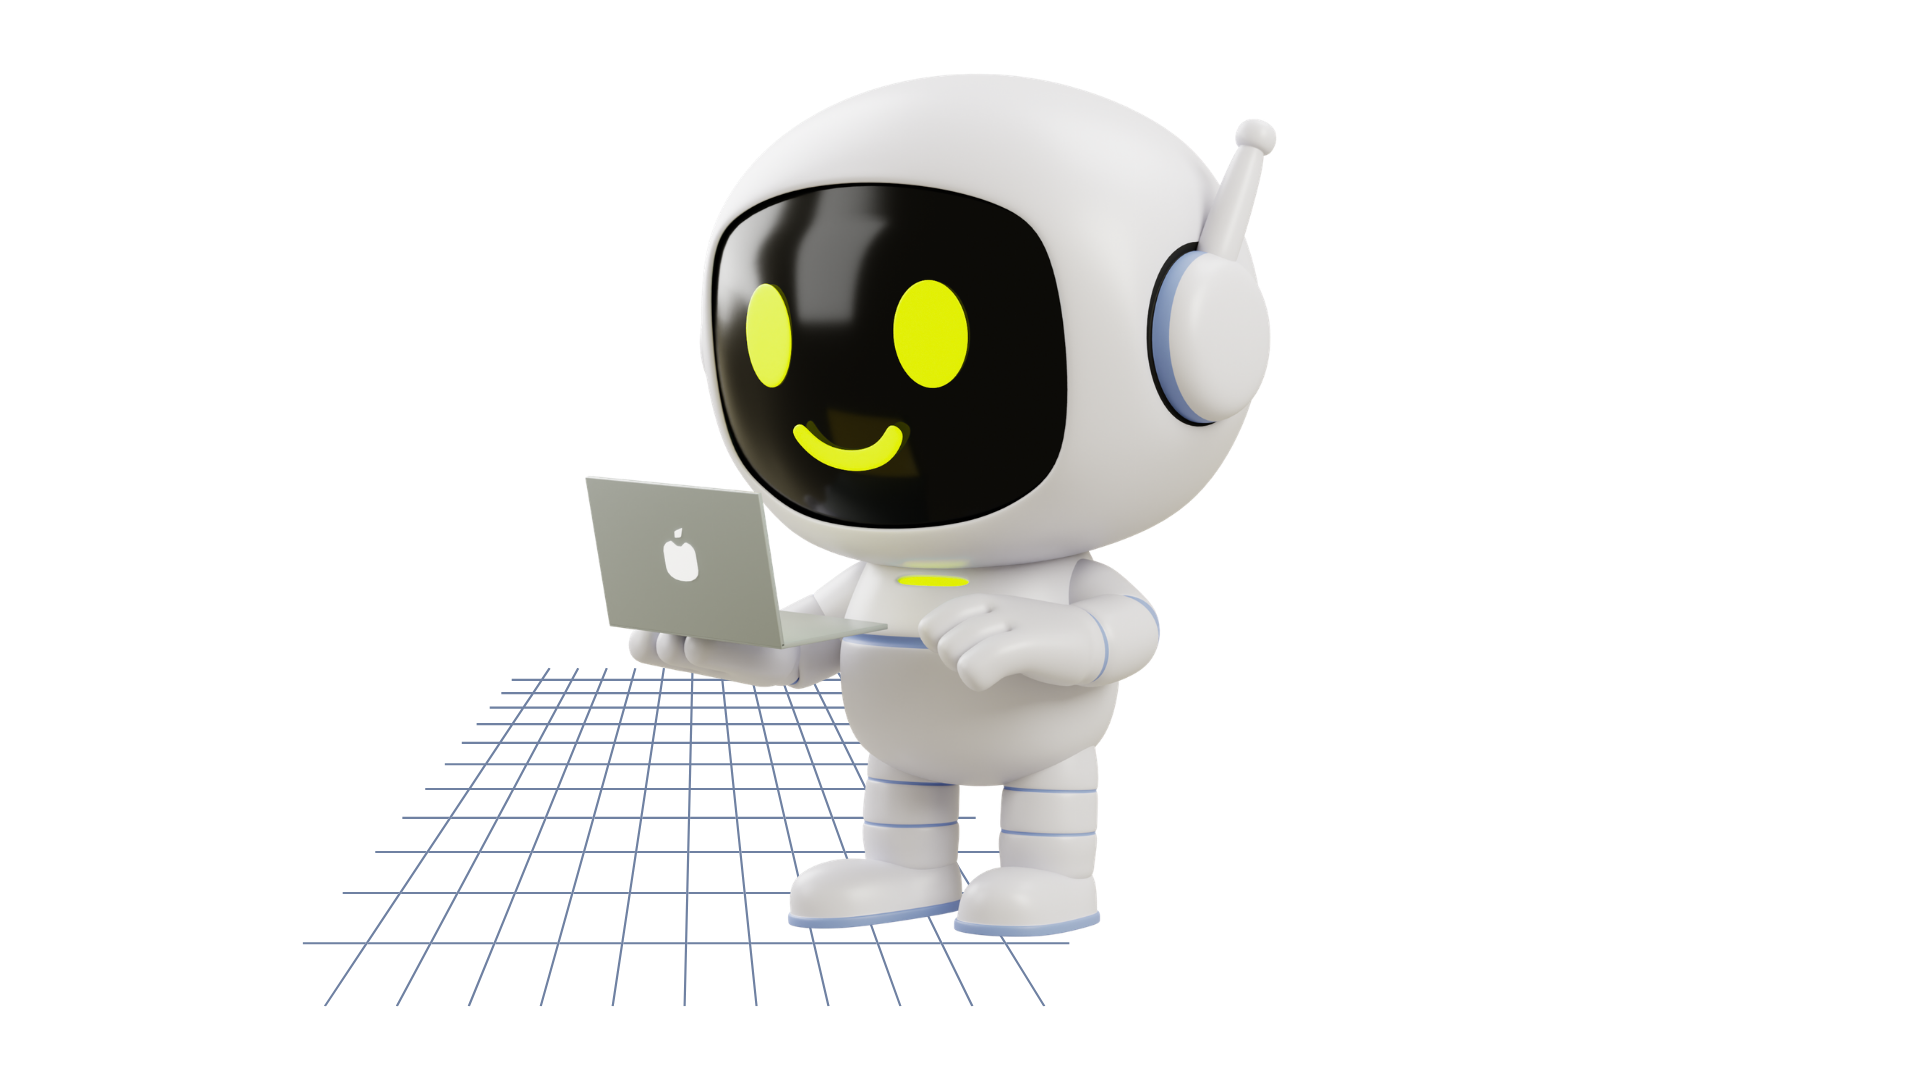
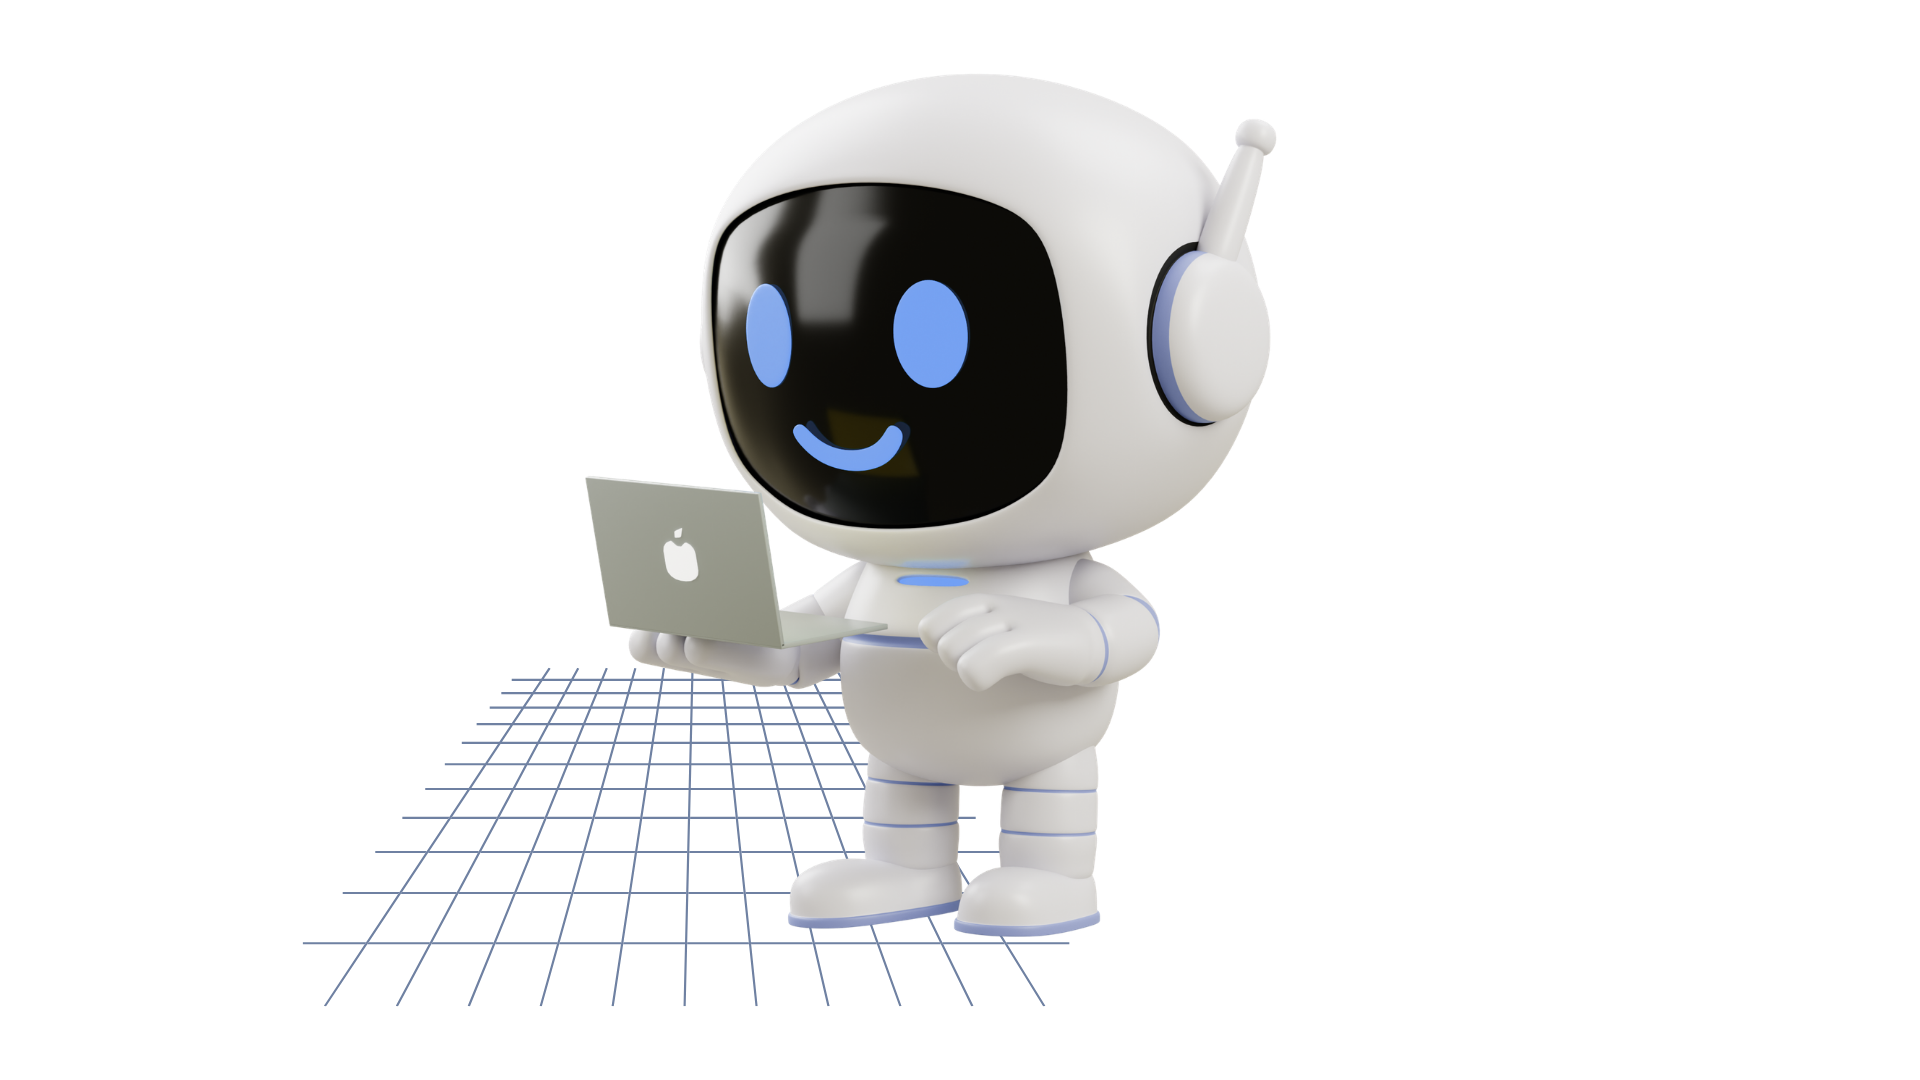
site

diff --git a/index.html b/index.html
@@ -7,7 +7,7 @@
     <title>Logos | Arquitetura Digital</title>
     <script src="https://cdn.tailwindcss.com"></script>
     <link href="https://fonts.googleapis.com/css2?family=Inter:wght@300;400;600;700;800&display=swap" rel="stylesheet">
-    <style>
+<style>
     :root { 
         --logos-blue-deep: #000814;    /* Azul Quase Preto */
         --logos-blue-royal: #001e4d;   /* Azul Real para Gradientes */
@@ -16,18 +16,57 @@
         --logos-text-light: #f8fafc;   /* Texto Claro (Fundo Dark) */
     }
 
+    /* --- COMPACTAÇÃO EXTREMA DA SEÇÃO AZUL (HERO) --- */
+    .bg-matriz-gradient {
+        /* Removemos qualquer altura mínima forçada pelo Tailwind */
+        min-height: 0 !important; 
+        height: auto !important;
+        
+        /* Reduzimos o espaço interno drasticamente */
+        padding-top: 80px !important;    /* Espaço para a logo/nav */
+        padding-bottom: 20px !important;  /* Espaço antes da onda/próxima seção */
+        
+        /* Ajuste do gradiente para acompanhar a compactação */
+        background: radial-gradient(circle at 30% 30%, var(--logos-blue-royal) 0%, var(--logos-blue-deep) 100%) !important;
+    }
+
+    /* Reduz o espaço vago entre o Menu e o Título */
+    nav .max-w-7xl {
+        height: 80px !important; 
+    }
+
+    /* Aproxima os textos dentro da parte azul */
+    .bg-matriz-gradient h1 {
+        margin-top: 10px !important;
+        margin-bottom: 0.5rem !important;
+    }
+
+    .bg-matriz-gradient p {
+        margin-bottom: 1.5rem !important;
+    }
+
+    /* --- REDUÇÃO DE ESPAÇOS VAGOS NAS OUTRAS SEÇÕES --- */
+    section {
+        padding-top: 40px !important;    
+        padding-bottom: 40px !important; 
+    }
+
+    /* Aproxima títulos de parágrafos em todo o site */
+    h1, h2, h3 {
+        margin-bottom: 0.8rem !important;
+    }
+
     /* --- LOGO NO CABEÇALHO (NAVBAR) --- */
     nav img {
-        /* Aumentando a altura consideravelmente */
-        height: 80px !important; /* No desktop */
-        max-height: 90px !important;
+        height: 70px !important; /* Ligeiramente menor para ajudar na compactação */
+        max-height: 80px !important;
         width: auto !important;
         transition: transform 0.3s ease;
     }
     
     @media (max-width: 768px) {
         nav img {
-            height: 60px !important; /* No celular para não ocupar a tela toda */
+            height: 55px !important;
         }
     }
 
@@ -37,90 +76,82 @@
         background-color: #ffffff; 
         color: var(--logos-text-dark); 
         -webkit-font-smoothing: antialiased;
-        letter-spacing: -0.01em; /* Deixa a fonte mais elegante */
+        letter-spacing: -0.01em;
     }
 
-    /* Títulos Imponentes (Estilo Apple/Matriz) */
     h1, h2, h3, .hero-title {
         font-weight: 800 !important;
         letter-spacing: -0.04em !important;
         line-height: 1.1 !important;
     }
 
-/* --- AJUSTE ESPECÍFICO PARA O MANIFESTO NO RODAPÉ --- */
-    
-    /* Localiza o parágrafo da "Nossa Essência / Manifesto" no Footer */
-    footer p.italic, 
-    footer .text-purple-200, 
-    footer .font-light.italic {
-        color: #f8fafc !important;      /* Branco gelo (máxima visibilidade) */
-        opacity: 1 !important;          /* Remove qualquer transparência */
-        font-size: 1.1rem !important;   /* Aumenta levemente o tamanho */
-        line-height: 1.8 !important;    /* Dá mais espaço entre as linhas */
-        font-style: italic !important;
-        text-shadow: 0 2px 4px rgba(0,0,0,0.5); /* Sombra leve para destacar do fundo */
+    /* --- ESTILIZAÇÃO DO NOVO RODAPÉ COMPACTO --- */
+    footer {
+        background: #00040a !important;
+        padding-top: 40px !important;
+        padding-bottom: 25px !important;
     }
 
-    /* Destaque para as palavras Razão, Lógica e Princípio */
-    footer .flex.gap-12 span {
-        color: #0062ff !important;      /* Azul Logos Elétrico */
-        font-weight: 800 !important;
-        letter-spacing: 0.3em !important;
-        opacity: 1 !important;
-    }
-
-    /* Seção de Contatos (Telefone, E-mail, Endereço) */
-    footer ul li {
-        color: #cbd5e1 !important;      /* Cinza prateado nítido */
-        opacity: 1 !important;
-        font-weight: 400 !important;
-    }
-
-    /* Títulos das colunas no rodapé */
-    footer h4, footer h5 {
-        color: #ffffff !important;      /* Branco puro nos títulos */
-        opacity: 1 !important;
-        font-weight: 800 !important;
-    }
-
-    /* --- LOGO NO RODAPÉ (FOOTER) --- */
-    footer img {
-        /* Tamanho imponente para fechar o site com autoridade */
-        height: 180px !important; 
-        max-height: 200px !important;
+    .footer-logo {
+        height: 55px !important; 
         width: auto !important;
-        opacity: 0.9 !important; /* Aumentando a visibilidade que estava baixa */
-        filter: drop-shadow(0 0 20px rgba(0, 98, 255, 0.2)); /* Brilho azul sutil */
-        transition: all 0.5s ease;
+        margin-bottom: 8px !important;
+        filter: drop-shadow(0 0 10px rgba(0, 98, 255, 0.2));
     }
 
-    footer img:hover {
-        opacity: 1 !important;
-        transform: scale(1.05);
-        filter: drop-shadow(0 0 30px rgba(0, 98, 255, 0.4));
+    .footer-title {
+        color: #ffffff !important;
+        font-size: 11px !important;
+        font-weight: 800 !important;
+        text-transform: uppercase !important;
+        letter-spacing: 0.2em !important;
+        margin-bottom: 15px !important;
+        display: block;
     }
 
-    /* Ajuste de espaçamento para a Logo não ficar apertada */
-    nav .max-w-7xl {
-        height: 120px !important; /* Aumentando a altura da barra para caber a logo maior */
+    .footer-list {
+        list-style: none !important;
+        padding: 0 !important;
+        margin: 0 !important;
+    }
+
+    .footer-list li {
+        margin-bottom: 8px !important;
+        font-size: 13px !important;
+    }
+
+    .footer-list a {
+        color: #94a3b8 !important;
+        text-decoration: none !important;
+        transition: color 0.3s ease !important;
+    }
+
+    .footer-list a:hover {
+        color: #0062ff !important;
+    }
+
+    footer p.italic {
+        font-size: 12px !important;
+        line-height: 1.5 !important;
+        color: #64748b !important;
+        text-shadow: none !important;
+    }
+
+    footer .border-t {
+        border-color: rgba(255, 255, 255, 0.05) !important;
     }
 
     /* --- LIMPEZA DE CORES (FIM DO ROXO) --- */
-    
-    /* Substituição Global de Fundos Roxos por Gradiente Azul Logos */
     [class*="bg-purple-"], .bg-purple-700, .bg-purple-800, .bg-purple-900 {
         background: radial-gradient(circle at center, var(--logos-blue-royal) 0%, var(--logos-blue-deep) 100%) !important;
         color: var(--logos-text-light) !important;
     }
 
-    /* Substituição de Textos Roxos por Azul Elétrico */
     [class*="text-purple-"], .text-purple-700, .text-purple-800 {
         color: var(--logos-blue-electric) !important;
     }
 
-    /* --- CONTRASTE DE TEXTO (RESOLVENDO O "APAGADO") --- */
-
-    /* Regra para Seções Escuras (Hero e Rodapé) */
+    /* --- CONTRASTE DE TEXTO --- */
     .bg-matriz-gradient, [class*="bg-purple-"], .bg-slate-950 {
         color: var(--logos-text-light) !important;
     }
@@ -131,21 +162,15 @@
         color: rgba(255, 255, 255, 0.8) !important;
     }
 
-    /* Regra para Seções Brancas (Serviços e Depoimentos) */
     .bg-white, .bg-slate-50 {
         color: var(--logos-text-dark) !important;
     }
     .bg-white h2, .bg-white h3, .bg-slate-50 h2, .bg-slate-50 h4 {
-        color: #0f172a !important; /* Títulos pretos bem visíveis */
+        color: #0f172a !important;
     }
     .bg-white p, .bg-slate-50 p {
-        color: #334155 !important; /* Cinza grafite legível */
+        color: #334155 !important;
         font-weight: 400 !important;
-    }
-
-    /* --- GRADIENTE HERO --- */
-    .bg-matriz-gradient {
-        background: radial-gradient(circle at 30% 30%, var(--logos-blue-royal) 0%, var(--logos-blue-deep) 100%) !important;
     }
 
     /* --- BOTÕES --- */
@@ -361,8 +386,9 @@
 
             <div class="mb-24" data-aos="zoom-in">
                 <h3 class="text-2xl md:text-3xl font-bold mb-8">Você merece um site incrível sem <br> precisar gastar uma fortuna!</h3>
-                <a href="https://wa.me/554599999999" class="bg-orange-500 hover:bg-orange-600 text-white px-12 py-4 rounded-full font-black text-sm uppercase tracking-widest transition-all shadow-xl">
-                    Solicitar Orçamento Agora!
+                <a href="https://wa.me/5545999614886?text=Olá!%20Gostaria%20de%20um%20diagnóstico%20estratégico%20para%20o%20meu%20projeto.%20Vi%20o%20manifesto%20da%20Logos%20e%20busco%20uma%20estrutura%20digital%20inteligente%20para%20o%20meu%20negócio." 
+                class="bg-orange-500 hover:bg-orange-600 text-white px-12 py-4 rounded-full font-black text-sm uppercase tracking-widest transition-all shadow-xl inline-block">
+                Solicitar Consultoria Digital
                 </a>
             </div>
 
@@ -372,13 +398,13 @@
                 
                 <div class="grid grid-cols-1 sm:grid-cols-2 lg:grid-cols-3 gap-8">
                     <div class="rounded-2xl overflow-hidden shadow-2xl hover:scale-105 transition-transform duration-500" data-aos="fade-up">
-                        <img src="img/portfolio-1.jpg" alt="Projeto Logos 1" class="w-full h-auto">
+                        <img src="img/Sites Modelo (1).png" alt="Projeto Logos 1" class="w-full h-auto">
                     </div>
                     <div class="rounded-2xl overflow-hidden shadow-2xl hover:scale-105 transition-transform duration-500" data-aos="fade-up" data-aos-delay="100">
-                        <img src="img/portfolio-2.jpg" alt="Projeto Logos 2" class="w-full h-auto">
+                        <img src="img/Sites Modelo (2).png" alt="Projeto Logos 2" class="w-full h-auto">
                     </div>
                     <div class="rounded-2xl overflow-hidden shadow-2xl hover:scale-105 transition-transform duration-500" data-aos="fade-up" data-aos-delay="200">
-                        <img src="img/portfolio-3.jpg" alt="Projeto Logos 3" class="w-full h-auto">
+                        <img src="img/Sites Modelo (3).png" alt="Projeto Logos 3" class="w-full h-auto">
                     </div>
                     </div>
             </div>
@@ -446,7 +472,7 @@
     <section class="py-24 bg-white overflow-hidden">
         <div class="max-w-7xl mx-auto px-6 grid md:grid-cols-2 gap-16 items-center">
             <div class="relative order-2 md:order-1" data-aos="fade-right">
-                <img src="img/performance-mockup.png" alt="Performance" class="w-full h-auto">
+                <img src="img/Tecnologia.png" alt="Performance" class="w-full h-auto">
                 <div class="absolute -top-4 -left-4 text-orange-500 text-4xl font-bold">+</div>
             </div>
             <div class="order-1 md:order-2" data-aos="fade-left">
@@ -461,7 +487,7 @@
     </section>
 
     <div class="py-12 bg-orange-500 text-center">
-        <a href="https://wa.me/554599999999" class="text-white text-xl md:text-2xl font-black uppercase tracking-widest hover:scale-105 transition-transform inline-block">Quero começar o meu site hoje!</a>
+        <a href="https://wa.me/5545999614886?text=Olá!%20Estou%20navegando%20pelo%20site%20da%20Logos%20e%20gostaria%20de%20falar%20com%20um%20especialista%20sobre%20como%20estruturar%20meu%20projeto%20digital." class="text-white text-xl md:text-2xl font-black uppercase tracking-widest hover:scale-105 transition-transform inline-block">Quero começar o meu site hoje!</a>
     </div>
 
     <section id="contato" class="py-24 bg-purple-700 text-white text-center">
@@ -488,64 +514,81 @@
                     <div class="bg-orange-500 p-3 rounded-full group-hover:bg-orange-400 transition">
                         <svg class="w-6 h-6 fill-white" viewBox="0 0 24 24"><path d="M17.472 14.382c-.297-.149-1.758-.867-2.03-.967-.273-.099-.471-.148-.67.15-.197.297-.767.966-.94 1.164-.173.199-.347.223-.644.075-.297-.15-1.255-.463-2.39-1.475-.883-.788-1.48-1.761-1.653-2.059-.173-.297-.018-.458.13-.606.134-.133.298-.347.446-.52.149-.174.198-.298.298-.497.099-.198.05-.371-.025-.52-.075-.149-.669-1.612-.916-2.207-.242-.579-.487-.5-.669-.51-.173-.008-.371-.01-.57-.01-.198 0-.52.074-.792.372-.272.297-1.04 1.016-1.04 2.479 0 1.462 1.065 2.875 1.213 3.074.149.198 2.096 3.2 5.077 4.487.709.306 1.262.489 1.694.625.712.227 1.36.195 1.871.118.571-.085 1.758-.719 2.006-1.413.248-.694.248-1.289.173-1.413-.074-.124-.272-.198-.57-.347m-5.421 7.403h-.004a9.87 9.87 0 01-5.031-1.378l-.361-.214-3.741.982.998-3.648-.235-.374a9.86 9.86 0 01-1.51-5.26c.001-5.45 4.436-9.884 9.888-9.884 2.64 0 5.122 1.03 6.988 2.898a9.825 9.825 0 012.893 6.994c-.003 5.45-4.437 9.884-9.885 9.884m8.413-18.297A11.815 11.815 0 0012.05 0C5.495 0 .16 5.335.157 11.892c0 2.096.547 4.142 1.588 5.945L.057 24l6.305-1.654a11.882 11.882 0 005.683 1.448h.005c6.554 0 11.89-5.335 11.893-11.893a11.821 11.821 0 00-3.48-8.413Z"/></svg>
                     </div>
-                    <div class="text-left leading-tight">
-                        <span class="text-[10px] font-black uppercase text-purple-200 tracking-widest">Chame no Whatsapp</span><br>
-                        <span class="text-xl font-black italic">45 99961-4886</span>
+                    <a href="https://wa.me/5545999614886?text=Olá!%20Estou%20navegando%20pelo%20site%20da%20Logos%20e%20gostaria%20de%20falar%20com%20um%20especialista%20sobre%20como%20estruturar%20meu%20projeto%20digital." 
+                    target="_blank" 
+                    class="hover:opacity-80 transition-opacity">
+                        <div class="text-left leading-tight">
+                            <span class="text-[10px] font-black uppercase text-blue-400 tracking-widest">Chame no Whatsapp</span><br>
+                            <span class="text-xl font-black italic text-white">45 99961-4886</span>
+                        </div>
+                    </a>
                     </div>
-                </div>
             </div>
         </div>
     </section>
 
-    <footer class="py-24 bg-purple-900 text-white">
-        <div class="max-w-7xl mx-auto px-10">
-            <div class="grid grid-cols-1 md:grid-cols-3 gap-16 lg:gap-24">
+    <footer class="py-12 bg-purple-900 border-t border-white/5 text-white">
+        <div class="max-w-7xl mx-auto px-6">
+            <div class="grid grid-cols-1 md:grid-cols-4 gap-12 items-start">
                 
-                <div class="space-y-6">
-                    <a href="#home">
-                        <img src="img/logo-logos.png" alt="Logos Digital" class="h-16 w-auto opacity-90 hover:opacity-100 transition">
+                <div class="space-y-4">
+                    <a href="#home" class="inline-block">
+                        <img src="img/logo-logos.png" alt="Logos Digital" class="footer-logo">
                     </a>
-                    <p class="text-purple-200 text-sm leading-relaxed font-light italic">
-                        "No princípio, era a ideia. E a ideia precisava de estrutura. Nós somos a lógica por trás da inovação. Somos código com propósito. Somos a arquitetura invisível que sustenta negócios. Nós somos Logos."
+                    <p class="text-xs text-slate-400 leading-relaxed italic pr-4">
+                        "No princípio, era a ideia. E a ideia precisava de estrutura. Nós somos a lógica por trás da inovação."
                     </p>
-                    <div class="flex gap-4 pt-4">
-                        <a href="#" class="p-3 bg-white/5 rounded-full hover:bg-orange-500 transition shadow-lg">📸</a>
-                        <a href="#" class="p-3 bg-white/5 rounded-full hover:bg-orange-500 transition shadow-lg">💼</a>
-                    </div>
                 </div>
 
-                <div class="space-y-6">
-                    <h4 class="text-[11px] font-black uppercase tracking-[0.3em] text-orange-400">Sobre a Logos</h4>
-                    <ul class="space-y-4 text-sm font-medium text-purple-100">
-                        <li><a href="#home" class="hover:text-orange-400 transition">Home</a></li>
-                        <li><a href="#manifesto" class="hover:text-orange-400 transition">Nossa Essência</a></li>
-                        <li><a href="#portfolio" class="hover:text-orange-400 transition">Portfólio</a></li>
-                        <li><a href="#contato" class="hover:text-orange-400 transition">Fale Conosco</a></li>
+                <div>
+                    <h4 class="footer-title">Navegação</h4>
+                    <ul class="footer-list">
+                        <li><a href="#home">Início</a></li>
+                        <li><a href="#sobre">Quem Somos</a></li>
+                        <li><a href="#portfolio">Portfólio</a></li>
                     </ul>
                 </div>
 
-                <div class="space-y-6">
-                    <h4 class="text-[11px] font-black uppercase tracking-[0.3em] text-orange-400">Canais oficiais</h4>
-                    <ul class="space-y-4 text-sm font-light text-purple-100">
-                        <li class="flex items-center gap-3">📞 (45) 99961-4886</li>
-                        <li class="flex items-center gap-3">📧 [email redacted]</li>
-                        <li class="flex items-center gap-3">🕒 Seg. a Sex. das 8h às 18h</li>
-                        <li class="flex items-center gap-3 italic font-normal">📍 Cascavel, Paraná - Brasil</li>
+                <div>
+                    <h4 class="footer-title">Serviços</h4>
+                    <ul class="footer-list">
+                        <li><a href="#">Sistemas Core</a></li>
+                        <li><a href="#">Landing Pages</a></li>
+                        <li><a href="#">SEO Estratégico</a></li>
+                    </ul>
+                </div>
+
+                <div class="space-y-3">
+                    <h4 class="footer-title">Contato</h4>
+                    <ul class="footer-list text-slate-300">
+                        <li class="flex items-center gap-2"><span>📍</span> Cascavel, PR</li>
+                        <li class="flex items-center gap-2"><span>📧</span> [email redacted]</li>
+                        <li class="flex items-center gap-2 text-blue-400 font-bold"><span>📱</span> (45) 99961-4886</li>
                     </ul>
                 </div>
 
             </div>
 
-            <div class="mt-24 pt-8 border-t border-white/5 text-center">
-                <p class="text-[10px] text-purple-400 uppercase tracking-[0.5em] font-medium">
-                    Copyright 2026 Logos Inteligência Digital | Todos os direitos reservados
+            <div class="mt-12 pt-6 border-t border-white/5 flex flex-col md:flex-row justify-between items-center gap-4">
+                <p class="text-[10px] uppercase tracking-[0.3em] text-slate-500">
+                    &copy; 2026 LOGOS INTELIGÊNCIA DIGITAL
                 </p>
+                <div class="flex gap-6 text-[10px] uppercase tracking-widest text-slate-500">
+                    <span class="text-blue-500 font-black">Razão</span>
+                    <span class="text-blue-500 font-black">Lógica</span>
+                    <span class="text-blue-500 font-black">Princípio</span>
+                </div>
             </div>
         </div>
     </footer>
 
-    <a href="https://wa.me/5545999614886" class="fixed bottom-8 right-8 bg-green-500 p-4 rounded-full shadow-2xl hover:bg-green-400 transition-all z-[100]">
-        <img src="https://upload.wikimedia.org/wikipedia/commons/6/6b/WhatsApp.svg" class="w-8 h-8" alt="WhatsApp">
+    <a href="https://wa.me/5545999614886?text=Olá!%20Estou%20navegando%20pelo%20site%20da%20Logos%20e%20gostaria%20de%20falar%20com%20um%20especialista%20sobre%20como%20estruturar%20meu%20projeto%20digital." 
+    target="_blank" 
+    class="fixed bottom-6 right-6 bg-green-500 p-4 rounded-full shadow-2xl z-[200] hover:scale-110 transition duration-300 flex items-center justify-center"
+    title="Falar com Especialista">
+        <svg class="w-8 h-8 fill-white" viewBox="0 0 24 24">
+            <path d="M17.472 14.382c-.297-.149-1.758-.867-2.03-.967-.273-.099-.471-.148-.67.15-.197.297-.767.966-.94 1.164-.173.199-.347.223-.644.075-.297-.15-1.255-.463-2.39-1.475-.883-.788-1.48-1.761-1.653-2.059-.173-.297-.018-.458.13-.606.134-.133.298-.347.446-.52.149-.174.198-.298.298-.497.099-.198.05-.371-.025-.52-.075-.149-.669-1.612-.916-2.207-.242-.579-.487-.5-.669-.51-.173-.008-.371-.01-.57-.01-.198 0-.52.074-.792.372-.272.297-1.04 1.016-1.04 2.479 0 1.462 1.065 2.875 1.213 3.074.149.198 2.096 3.2 5.077 4.487.709.306 1.262.489 1.694.625.712.227 1.36.195 1.871.118.571-.085 1.758-.719 2.006-1.413.248-.694.248-1.289.173-1.413-.074-.124-.272-.198-.57-.347m-5.421 7.403h-.004a9.87 9.87 0 01-5.031-1.378l-.361-.214-3.741.982.998-3.648-.235-.374a9.86 9.86 0 01-1.51-5.26c.001-5.45 4.436-9.884 9.888-9.884 2.64 0 5.122 1.03 6.988 2.898a9.825 9.825 0 012.893 6.994c-.003 5.45-4.437 9.884-9.885 9.884m8.413-18.297A11.815 11.815 0 0012.05 0C5.495 0 .16 5.335.157 11.892c0 2.096.547 4.142 1.588 5.945L.057 24l6.305-1.654a11.882 11.882 0 005.683 1.448h.005c6.554 0 11.89-5.335 11.893-11.893a11.821 11.821 0 00-3.48-8.413Z"/>
+        </svg>
     </a>
 
     <style>